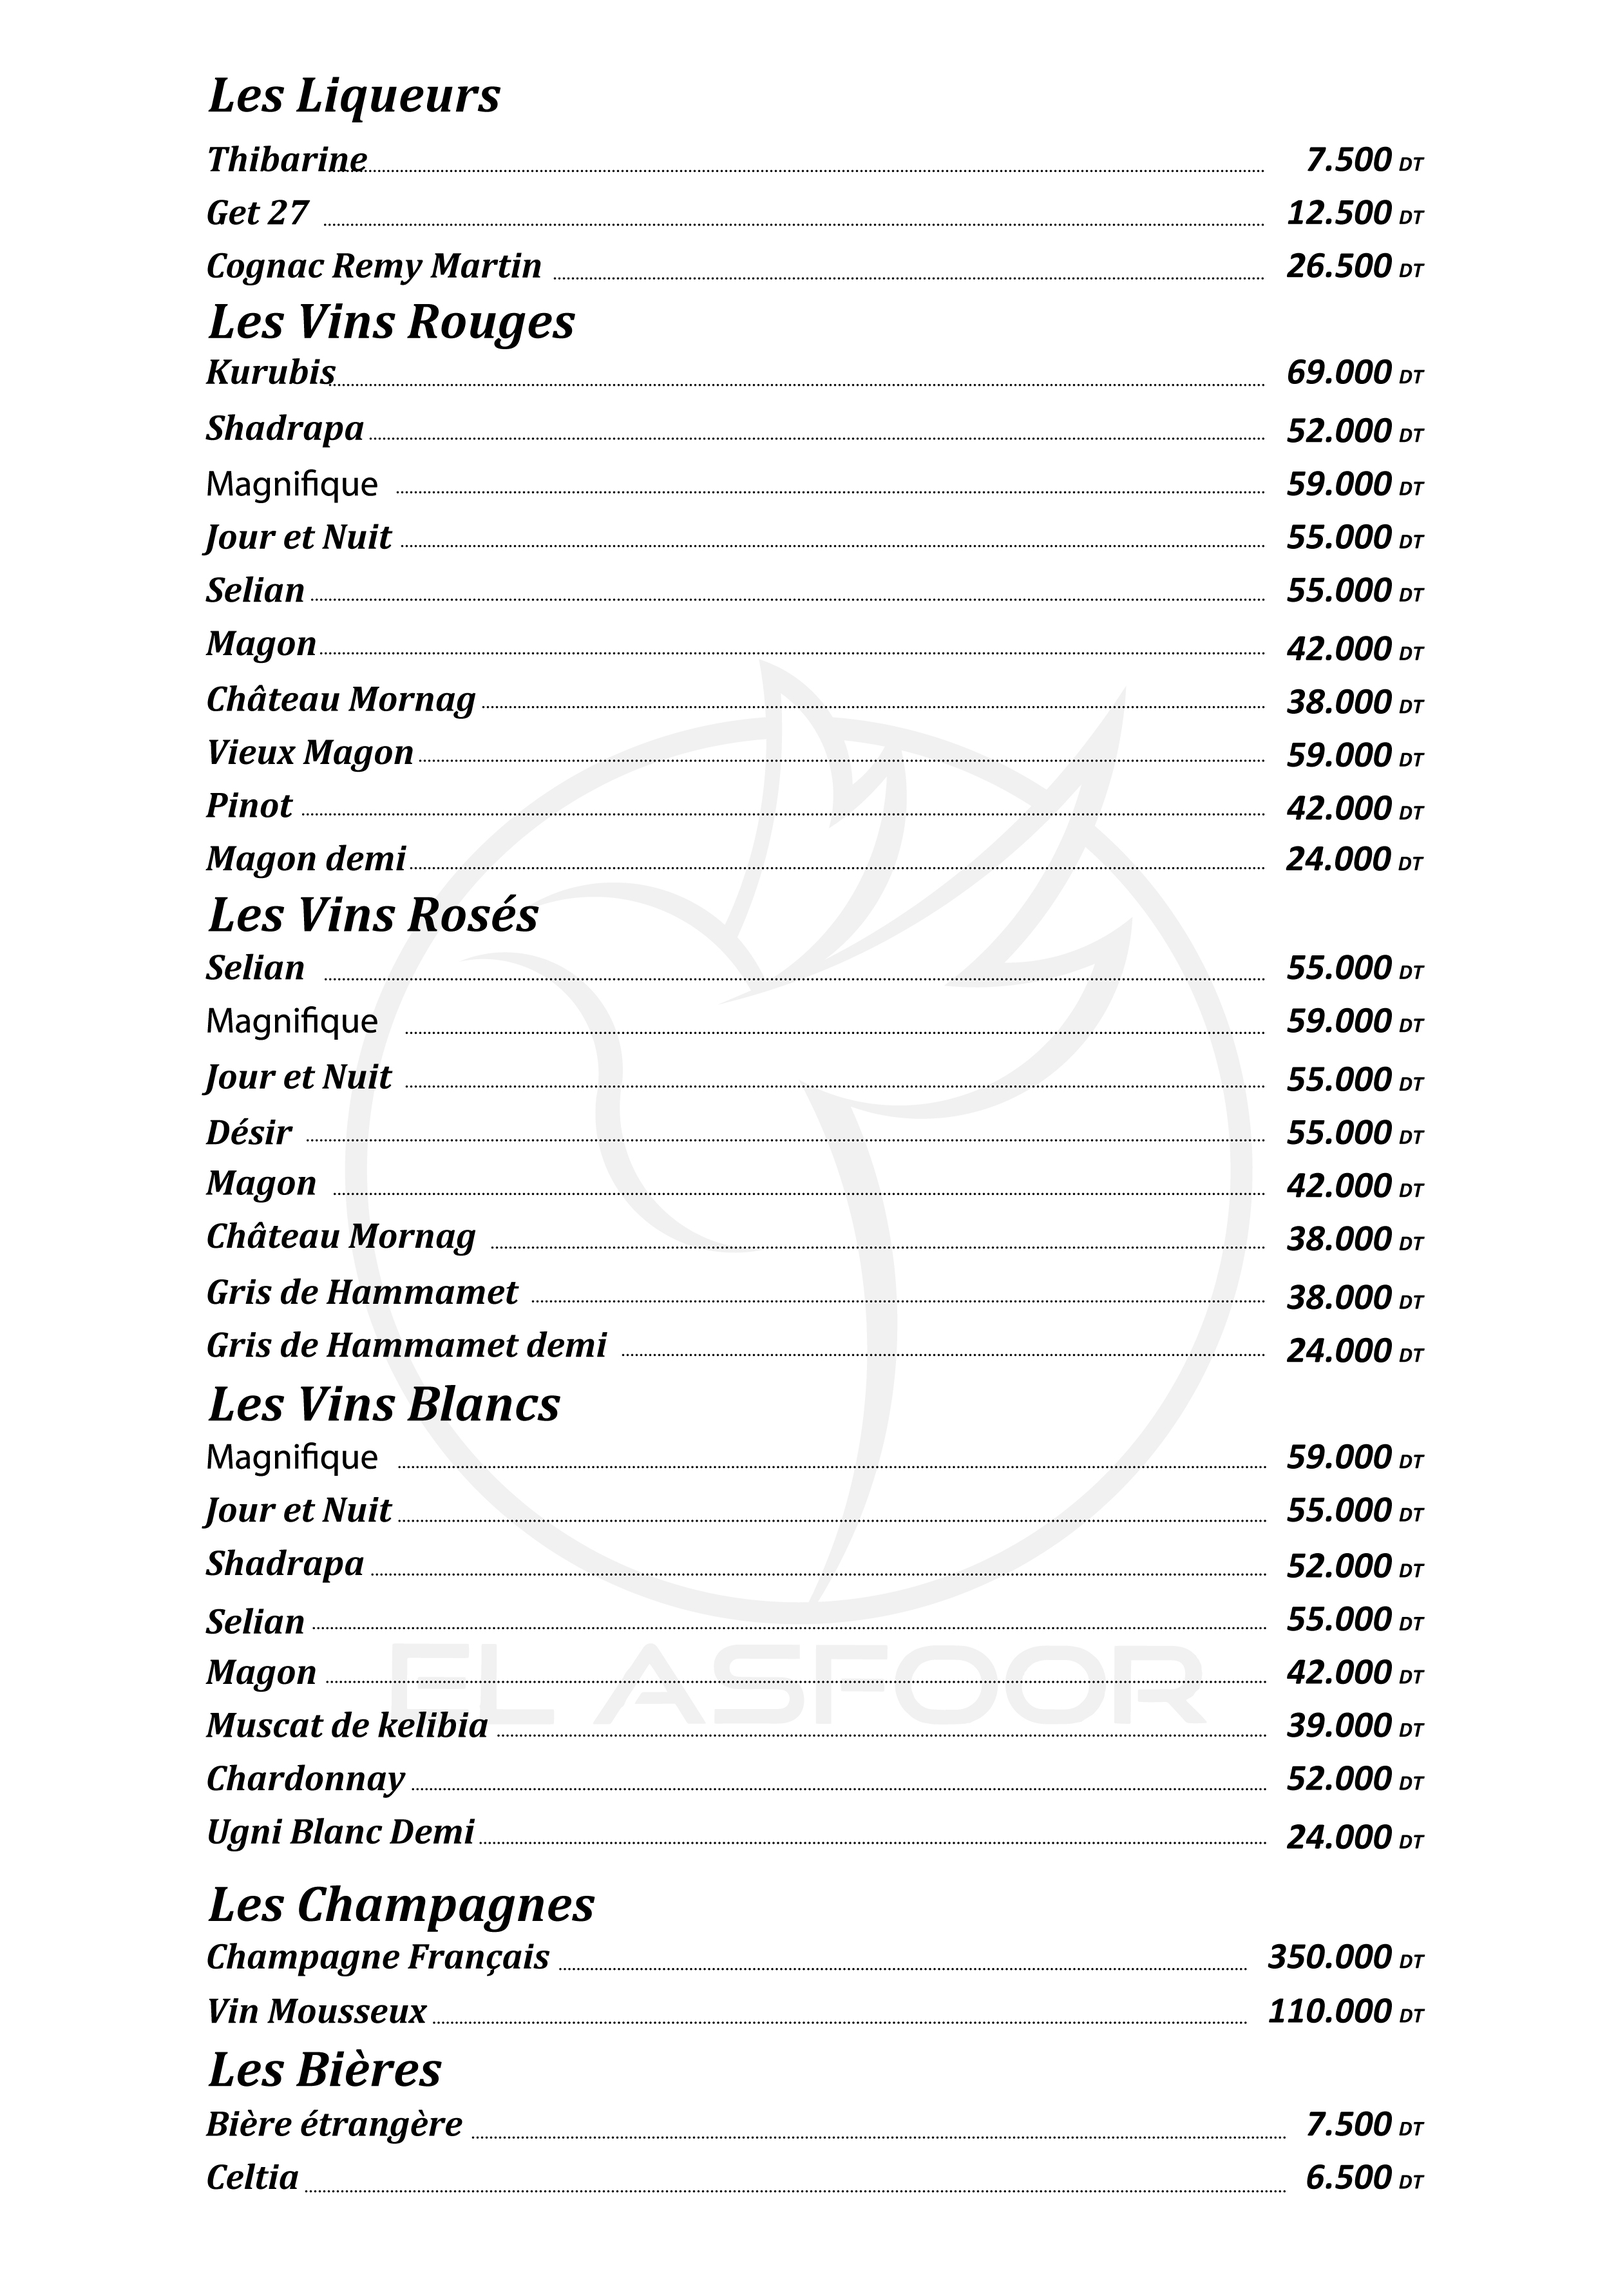
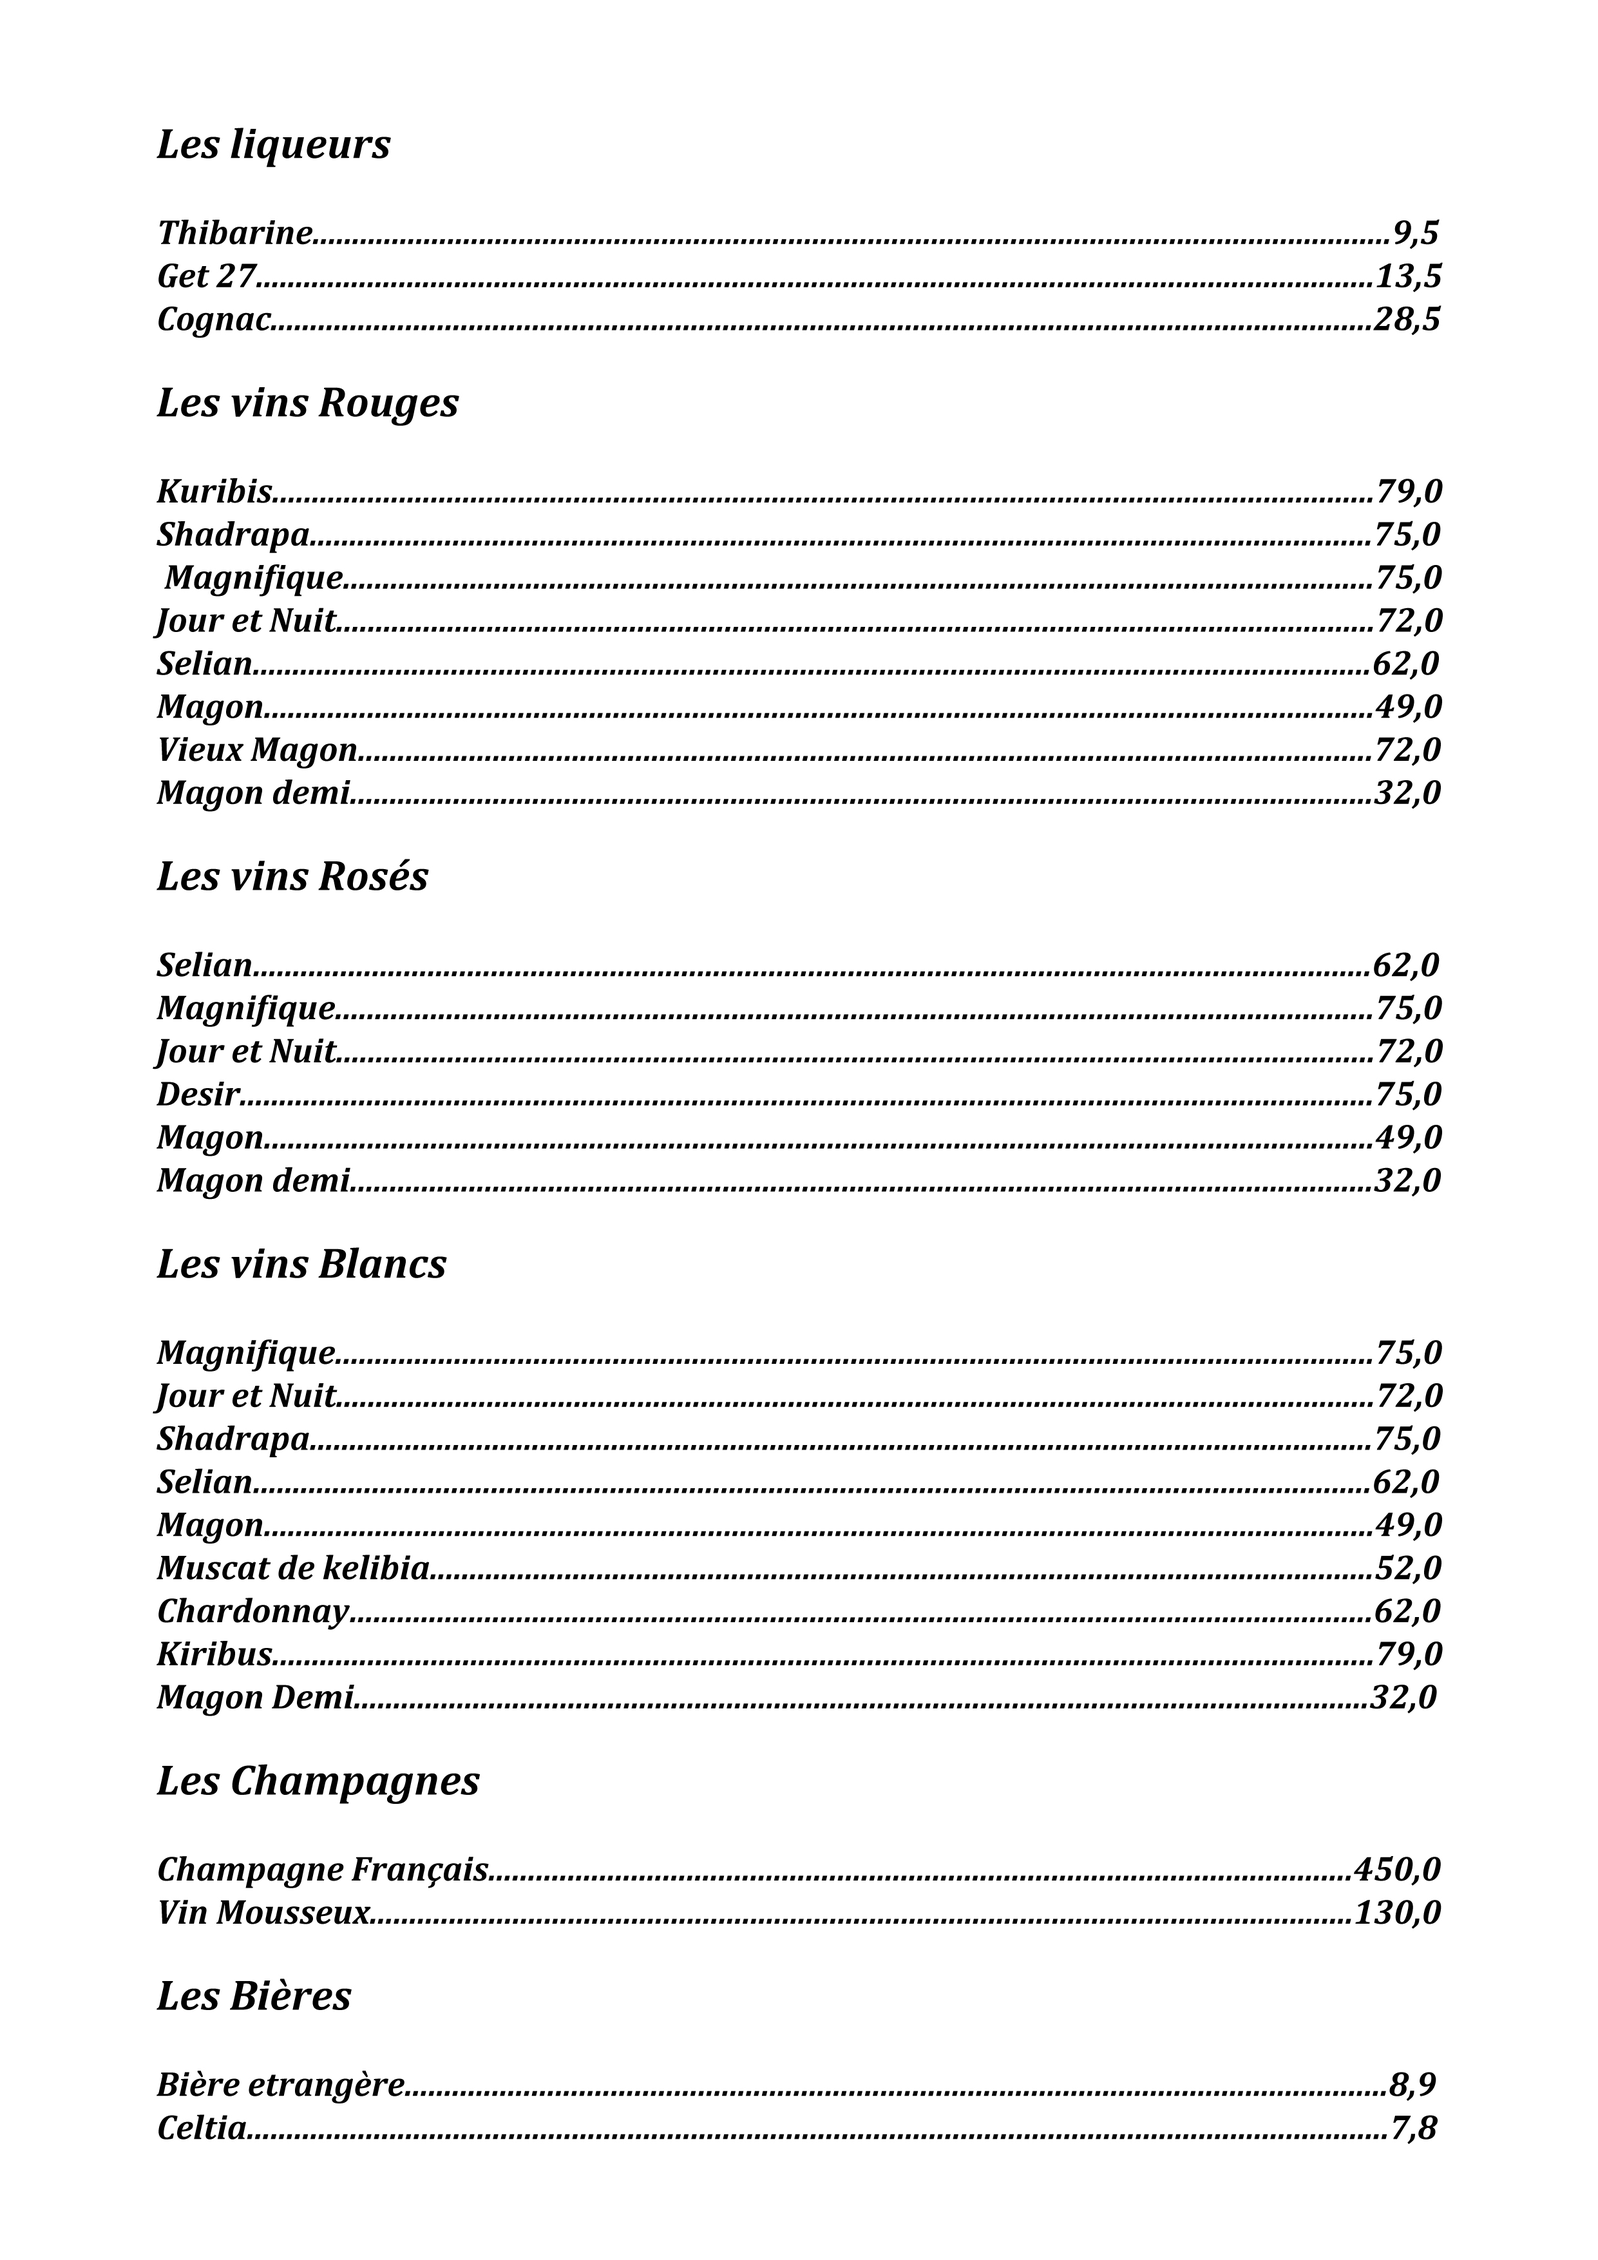
new Menu + updated social media links + changed 'Tapas et Pizza' category to 'Nos Pizzas'

diff --git a/static/js/social.js b/static/js/social.js
@@ -1,8 +1,8 @@
 const url_fb =
-    "https://www.facebook.com/El-Asfoor-Salon-De-Th%C3%A9Restaurant-109861641429696/";
+    "https://www.facebook.com/share/5FgbhiZ4CmS9mao5/";
 
 const url_insta =
-    "https://www.instagram.com/el_asfoor_salon_de_the_resto/";
+    "https://www.instagram.com/el__asfoor?utm_source=ig_web_button_share_sheet&igsh=ZDNlZDc0MzIxNw==";
 
 const url_tripadvisor =
     "https://www.tripadvisor.com/Restaurant_Review-g297947-d4461610-Reviews-El_Asfour-Mahdia_Mahdia_Governorate.html";

diff --git a/Menu-choice/Choix-menu-FR.html b/Menu-choice/Choix-menu-FR.html
@@ -45,7 +45,7 @@
         <span class="custom-button">
             <a 
                 href="../Tapas-Pizza/Tapas-Pizza-FR.html" 
-                data-button-content="Tapas et Pizza">
+                data-button-content="Nos Pizzas">
             </a>
         </span>        
 	</div>
